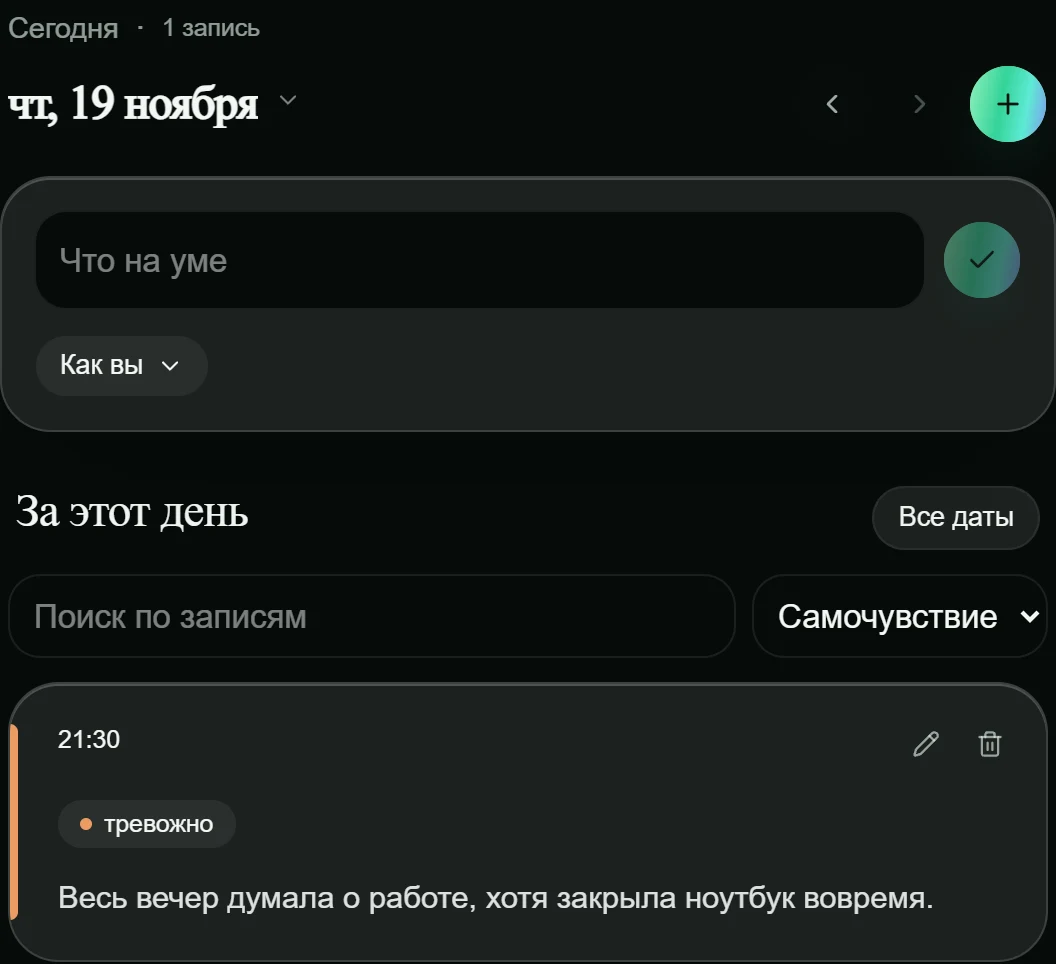
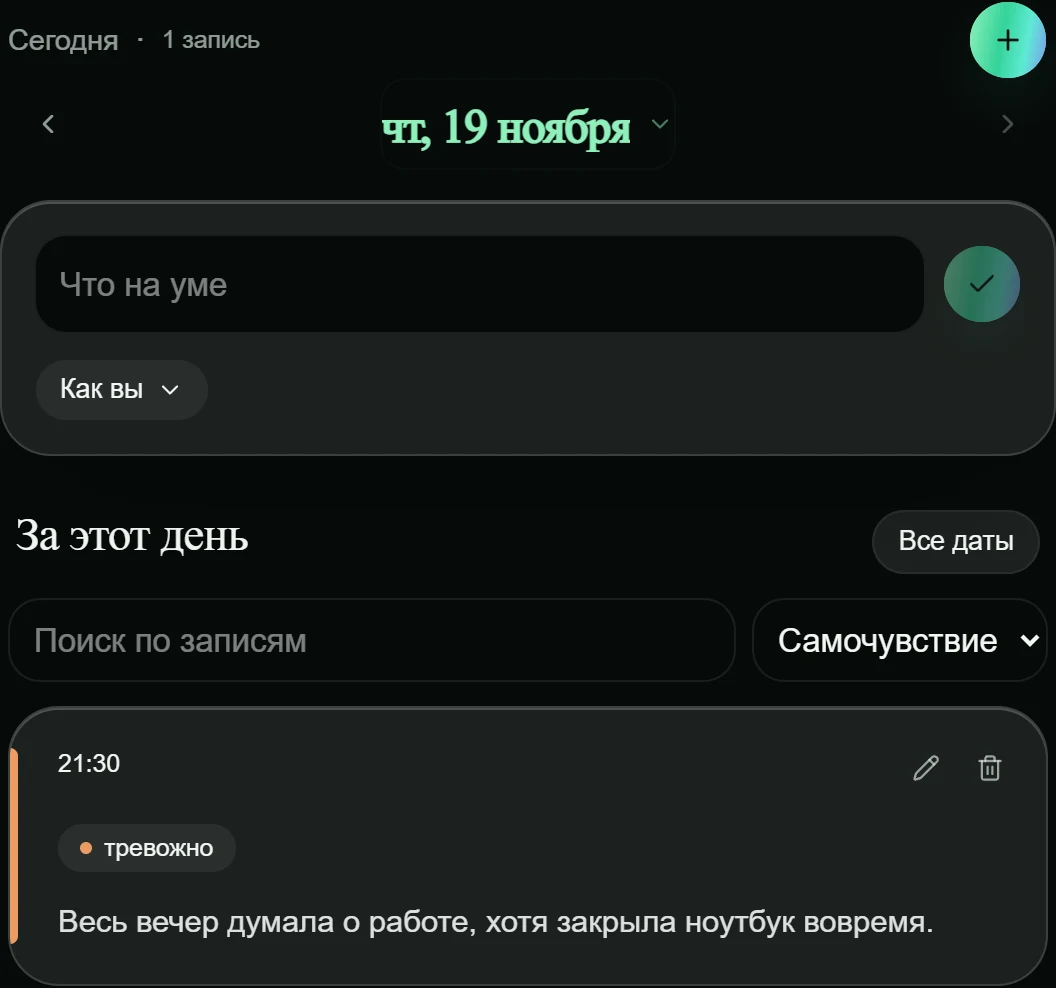
Center the journal date between day arrows (#183)

diff --git a/src/components/journal-panel.tsx b/src/components/journal-panel.tsx
@@ -180,8 +180,8 @@ export function JournalPanel({
 
   return (
     <div className="journal-board flex flex-col gap-4">
-      <header className="flex items-end justify-between gap-2 px-1">
-        <div className="min-w-0">
+      <header className="px-1">
+        <div className="flex items-center justify-between gap-2">
           <div className="flex min-h-7 flex-wrap items-center gap-x-2">
             {isToday ? <span className="text-sm font-medium text-section-header">{t("todayTitle")}</span> :
               <Button type="button" variant="outline" size="xs" disabled={disabled} onClick={() => changeDate(today)}>{t("todayTitle")}</Button>}
@@ -190,16 +190,16 @@ export function JournalPanel({
               {savedFlash ? <span className="inline-flex items-center gap-1 text-primary"><Check aria-hidden className="size-3.5" />{t("saved")}</span> : count(dayEntries.length, "note")}
             </span>
           </div>
-          <EntryCalendar id="journal-date" value={date} max={today} marks={marks} disabled={disabled} compact onChange={changeDate} />
+          {!composerOpen && <Button type="button" size="icon" aria-label={t("newEntry")} title={t("newEntry")} disabled={disabled} onClick={() => { resetForm(); setComposerOpen(true); }}><Plus aria-hidden /></Button>}
         </div>
-        <div className="ms-auto flex items-center gap-1">
+        <div className="grid grid-cols-[auto_minmax(0,1fr)_auto] items-center gap-1 text-center">
           <Button type="button" variant="ghost" size="icon" aria-label={t("journalPrevDay")} disabled={disabled} onClick={() => changeDate(addDays(date, -1))}>
             <ChevronLeft aria-hidden className="rtl:scale-x-[-1]" />
           </Button>
+          <EntryCalendar id="journal-date" value={date} max={today} marks={marks} disabled={disabled} compact onChange={changeDate} />
           <Button type="button" variant="ghost" size="icon" aria-label={t("journalNextDay")} disabled={disabled || isToday} onClick={() => changeDate(addDays(date, 1))}>
             <ChevronRight aria-hidden className="rtl:scale-x-[-1]" />
           </Button>
-          {!composerOpen && <Button type="button" size="icon" aria-label={t("newEntry")} title={t("newEntry")} disabled={disabled} onClick={() => { resetForm(); setComposerOpen(true); }}><Plus aria-hidden /></Button>}
         </div>
       </header>
 
